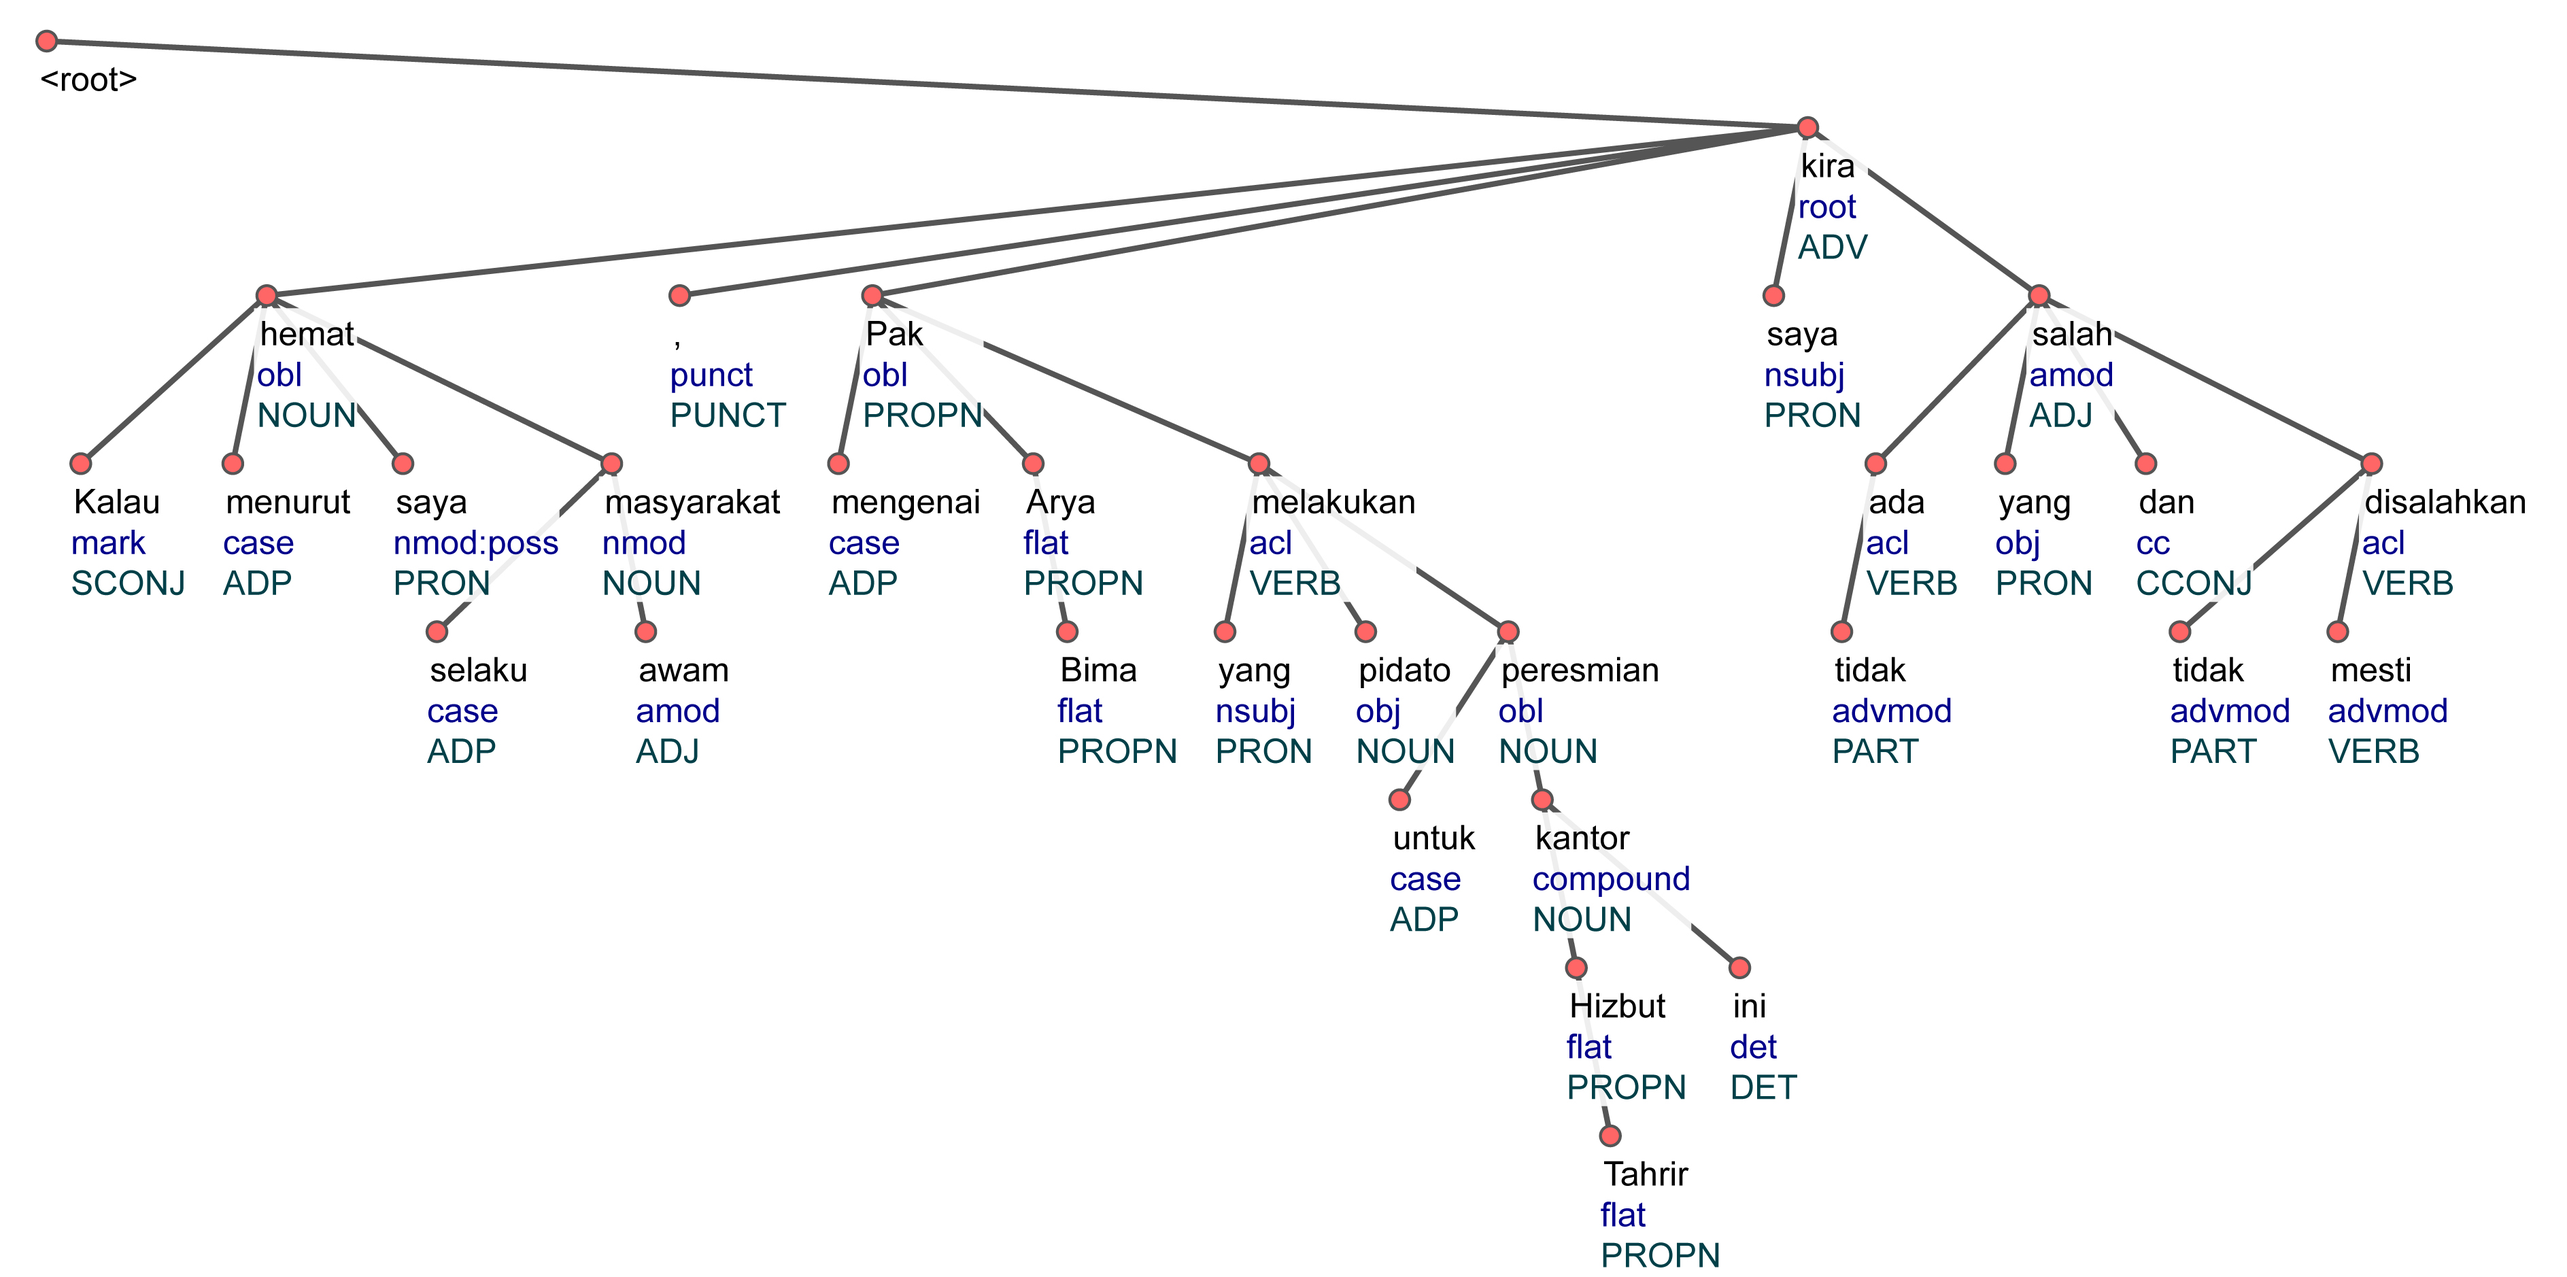
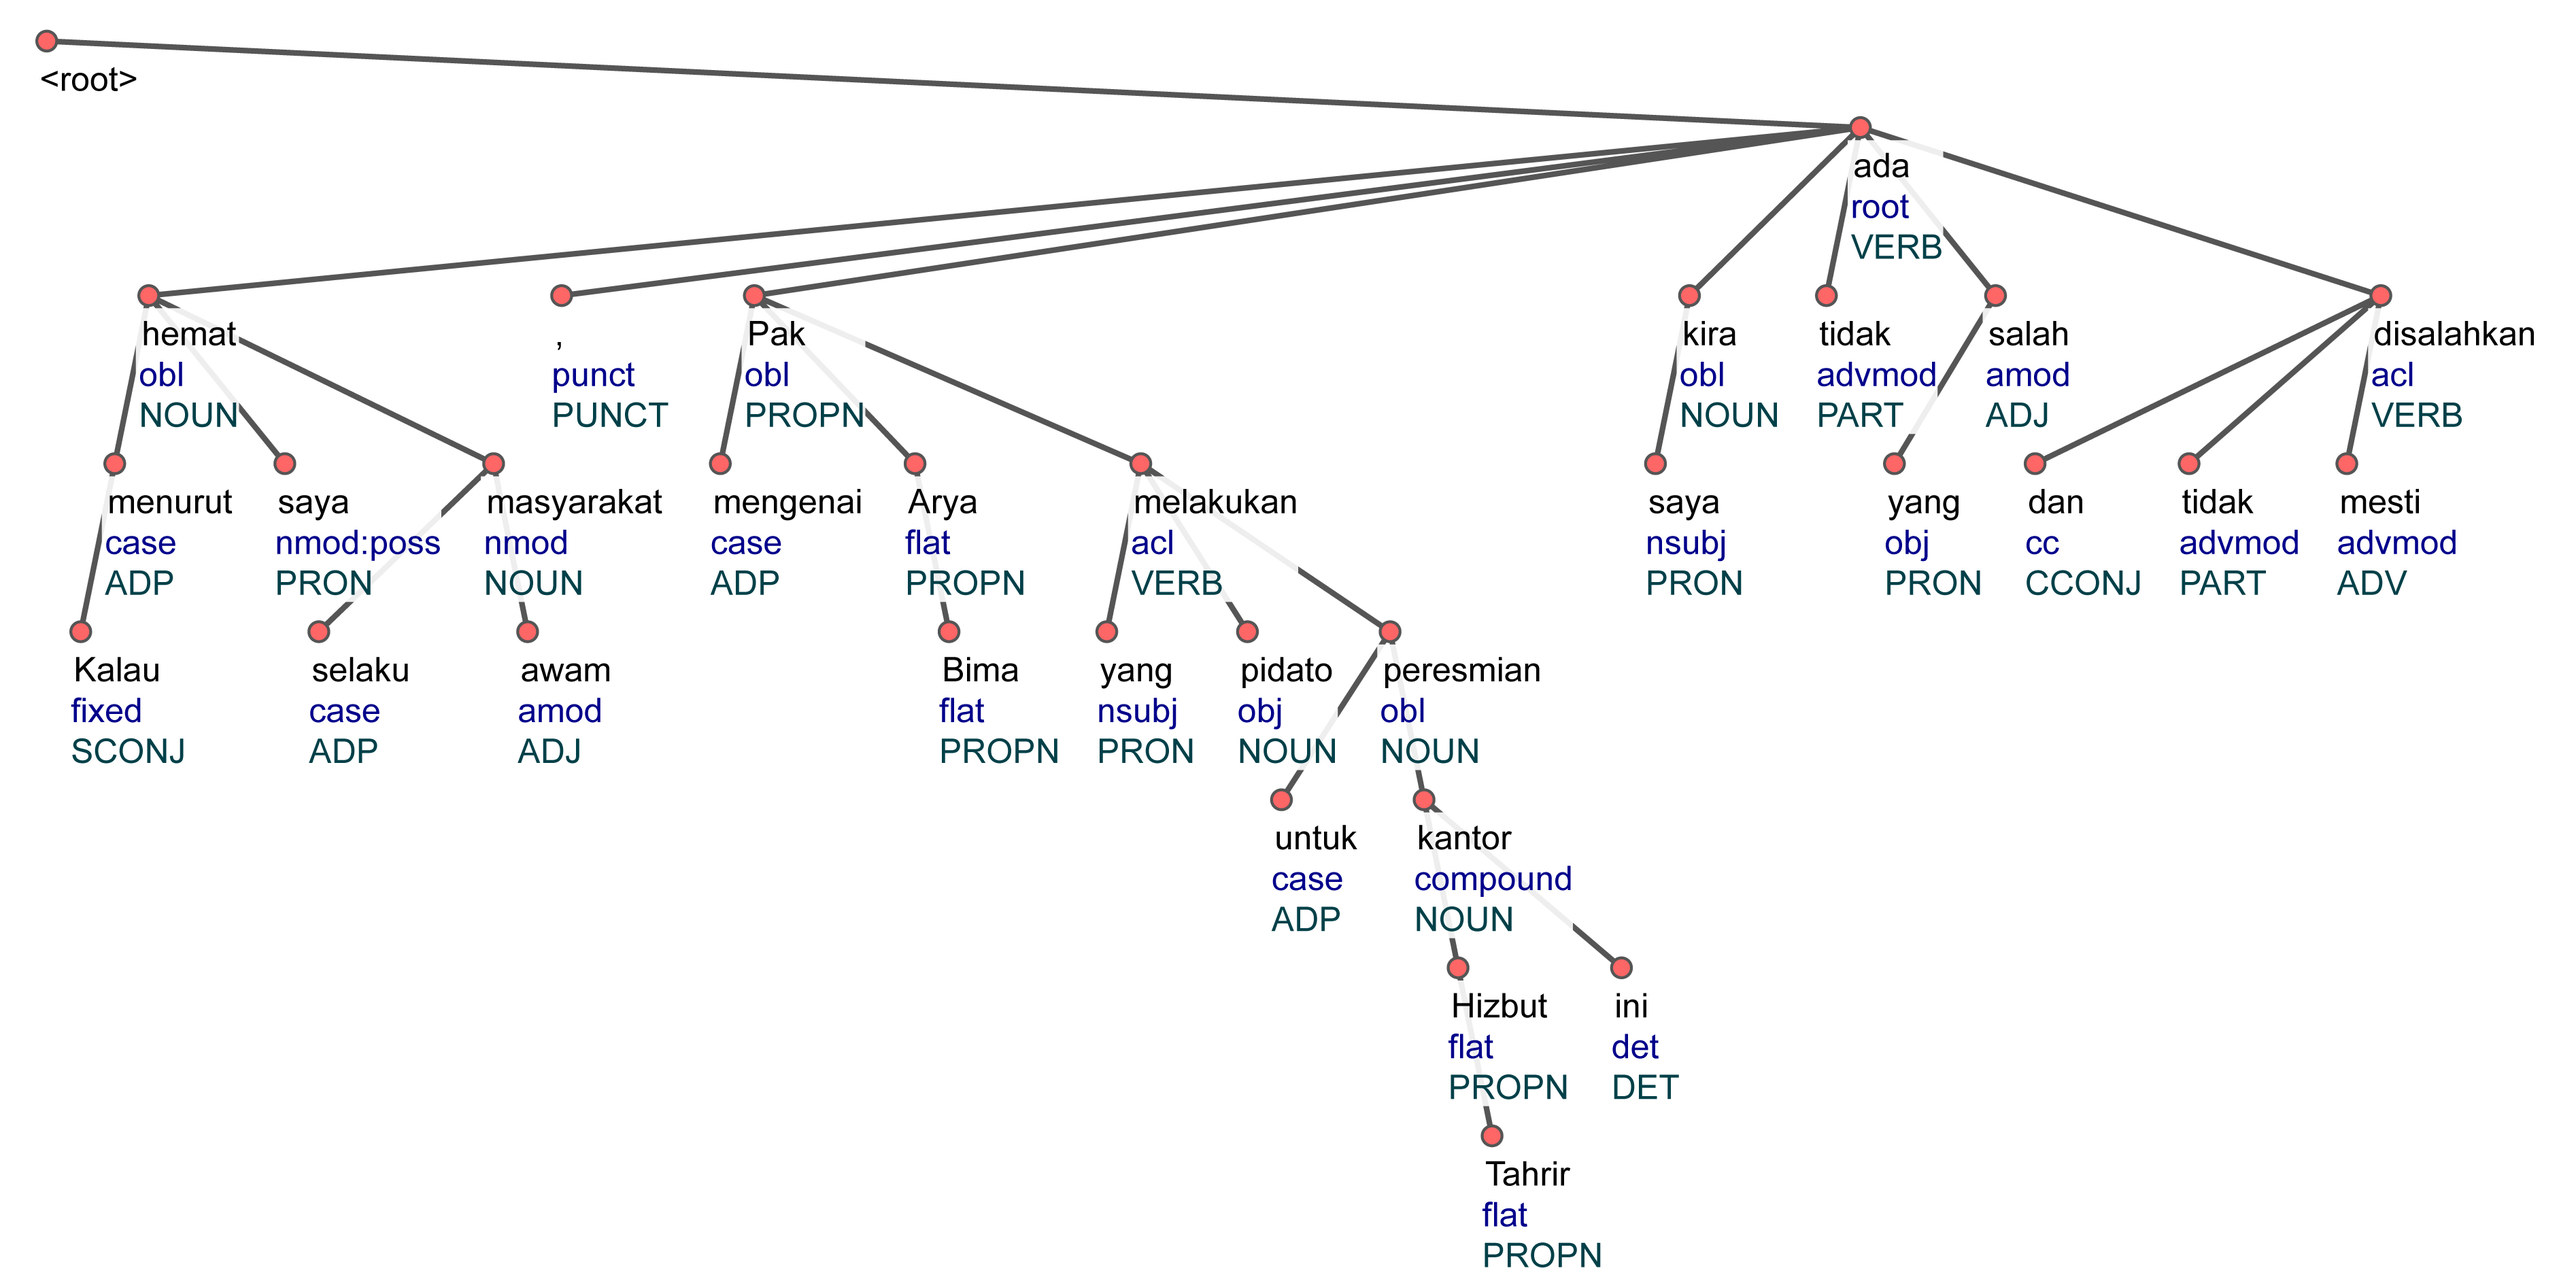
bab 4 L31c revised

diff --git a/bab4.tex b/bab4.tex
@@ -373,7 +373,7 @@ Pada kalimat L31b (\pic~\ref{fig:ls16}), akar berada di posisi tengah kalimat. S
 	\label{fig:ls114} 
 \end{figure}
 
-Kalimat L31c (\pic~\ref{fig:ls114}) memiliki akar cenderung di posisi akhir. Hal ini berarti semua simpai-simpai cabang di bawah \textit{hemat} dan \textit{Pak} harus disimpan di dalam memori kerja sebelum akar verbal \textit{kira} direalisasikan. Di bawah simpai \textit{Pak}, terlihat adanya indikasi percabangan searah, yaitu relasi antara \textit{Pak} dengan \textit{melakukan} dan \textit{melakukan} dengan \textit{peresmian}. Namun seluruh relasi ini berada di bawah tautan utama antara \textit{kira} dengan \textit{Pak}, sehingga terjadi percabangan yang bersifat kombinasi antara searah dan beda arah. Kalimat L31c(\pic~\ref{fig:ls114}) memiliki nilai DL 91 dan nilai MDD 3,03. Selisih nilai DL dari tautan-tautan dependensi positif dan negatif sangat besar yaitu sebesar -41. Nilai negatif menandakan jumlah bentuk relasi induk setelah konstituen terikat yang jauh lebih besar dibandingkan sebaliknya. Tampak pada \pic~\ref{fig:ls114}, nilai negatif yang besar ini terutama disebabkan oleh tautan-tautan dependensi pada simpai pusat yang sangat jauh.
+Kalimat L31c (\pic~\ref{fig:ls114}) memiliki akar cenderung di posisi akhir. Hal ini berarti semua simpai-simpai cabang di bawah \textit{hemat} dan \textit{Pak} harus disimpan di dalam memori kerja sebelum akar verbal \textit{kira} direalisasikan. Di bawah simpai \textit{Pak}, terlihat adanya indikasi percabangan searah, yaitu relasi antara \textit{Pak} dengan \textit{melakukan} dan \textit{melakukan} dengan \textit{peresmian}, dan seterusnya. Namun seluruh relasi ini berada di bawah tautan utama antara \textit{ada} dengan \textit{Pak}, sehingga terjadi percabangan yang bersifat kombinasi antara searah dan beda arah. Kalimat L31c(\pic~\ref{fig:ls114}) memiliki nilai DL 100 dan nilai MDD 3,333. Selisih nilai DL dari tautan-tautan dependensi positif dan negatif sangat besar yaitu sebesar -40. Nilai negatif ini menandakan jumlah bentuk relasi induk setelah konstituen terikat yang jauh lebih besar dibandingkan sebaliknya. Tampak pada \pic~\ref{fig:ls114}, nilai negatif yang besar ini terutama disebabkan oleh tautan-tautan dependensi pada simpai pusat yang sangat jauh.
 
 Kalimat L31a (\pic~\ref{fig:ls1716}), L31b (\pic~\ref{fig:ls16}), dan L31c(\pic~\ref{fig:ls114}) sedikit berbeda satu sama lain namun memiliki karakter utama yang serupa yang membedakannya dengan \pic~\ref{fig:ts2079} dan \pic~\ref{fig:ts2081} pada data ragam tulis. Salah satunya adalah perbedaan posisi akar pada \pic~\ref{fig:ls1716}, \pic~\ref{fig:ls16}, dan \pic~\ref{fig:ls114}. Berdasarkan diagram-diagram pohon tersebut, perbedaan yang paling terlihat antara contoh-contoh pada ragam lisan dibandingkan dengan contoh-contoh pada ragam tulis adalah percabangannya yang terlihat lebih tidak konsisten. Meskipun tidak semua kalimat memiliki struktur seperti \pic~\ref{fig:ts2079} dan \pic~\ref{fig:ts2081}, mayoritas kalimat panjang pada data ragam tulis menunjukkan karakter yang lebih konsisten dalam hal pergerakan percabangannya. Pada data ragam lisan, terlihat banyak kombinasi antara percabangan searah dan beda arah serta letak posisi akar yang menyebar dari awal hingga akhir kalimat. Percabangan utama yang tersebar pada ketiga kalimat tersebut menunjukkan indikasi hubungan klausa yang tidak bersifat berlanjut, namun paralel. Kalimat L31b (\pic~\ref{fig:ls16}) dan L31c (\pic~\ref{fig:ls114}) memiliki percabangan utama sebelum akar sehingga secara kolektif membentuk relasi dependensi utama yang negatif. Hal ini berarti seluruh informasi yang dibawa oleh klausa-klausa pada simpai dan percabangan sebelum akar harus disimpan dalam memori kerja dan menunggu realisasi akar agar penggalan informasi yang dibawa simpai tersebut dapat diproses secara utuh oleh kognisi manusia \citep{hawkins2014cross}.
 
